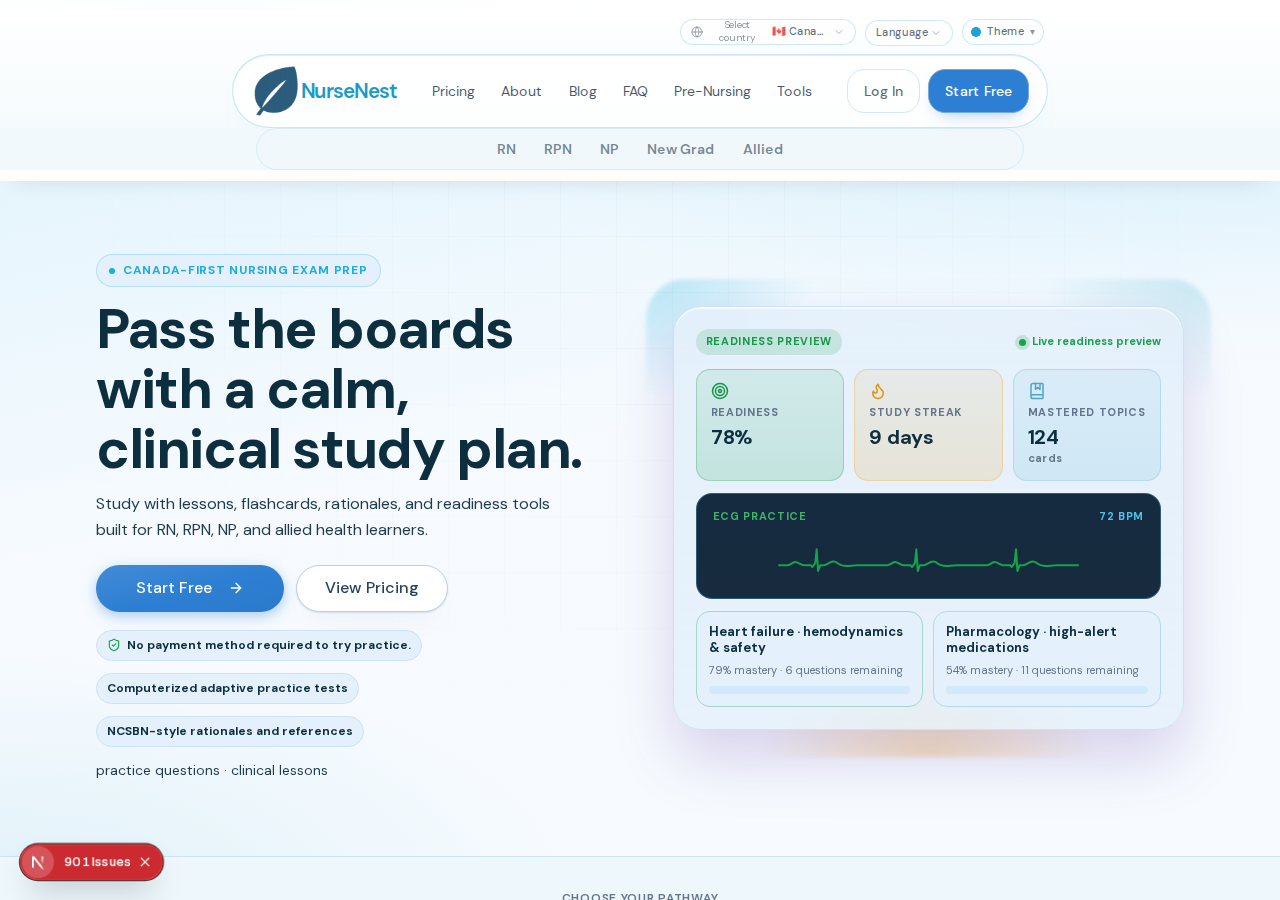
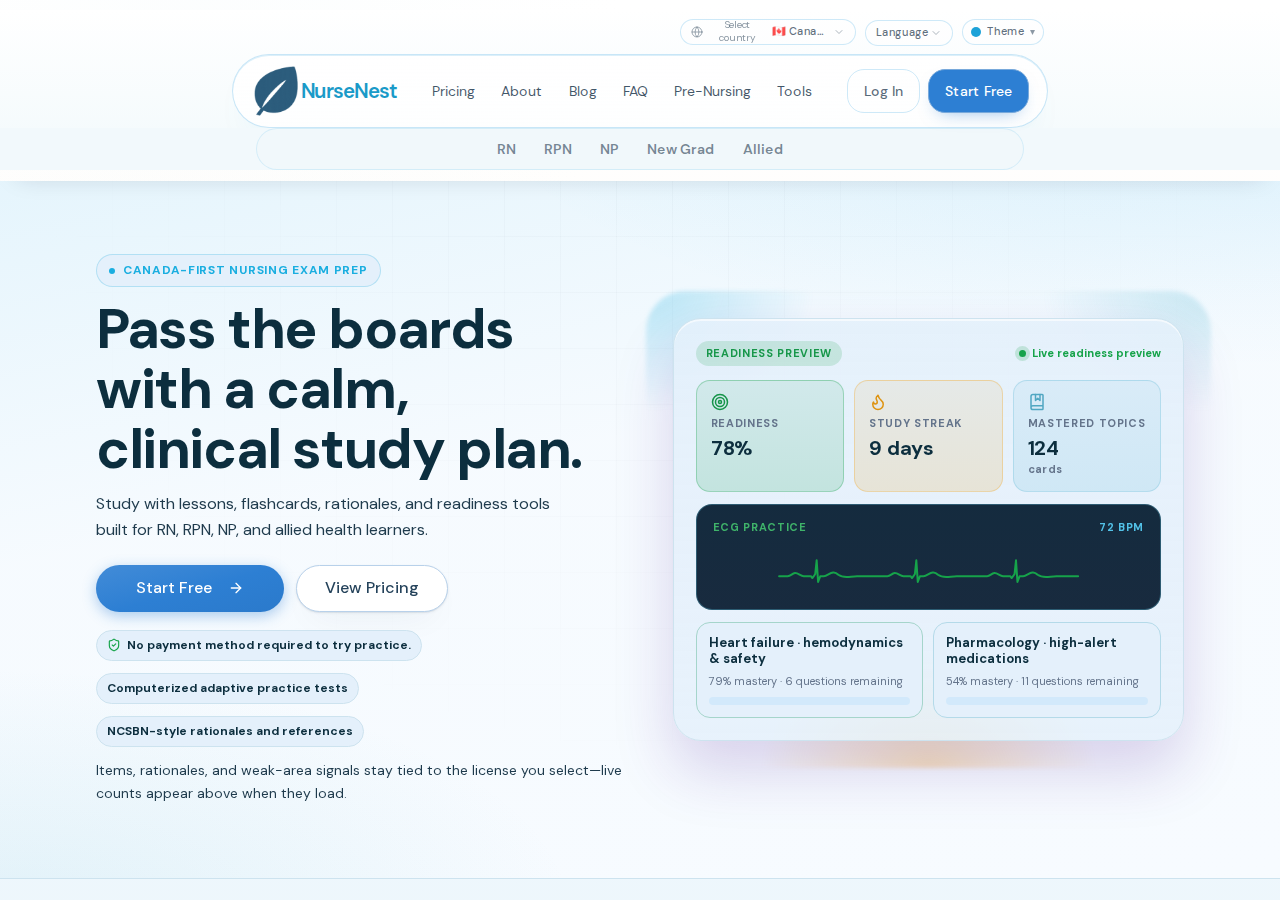
test(e2e): stabilize Ocean/Blossom/Midnight marketing header matrix
- Add describe grep-target slice with desktop hierarchy, 1280 screenshots + audits, mobile 390 shots
- Scope audits to active header layout; fix midnight utility band vs row4 DOM
- Parse color(srgb) for luminance/contrast; relax midnight text luminance gates slightly
- Document runbook and server mode in docs/reports

diff --git a/nursenest-core/tests/e2e/public/marketing-header-layout-responsive.spec.ts b/nursenest-core/tests/e2e/public/marketing-header-layout-responsive.spec.ts
@@ -440,14 +440,22 @@ test.describe("Marketing header — Ocean / Blossom / Midnight", () => {
         timeout: 60_000,
       });
 
-      const utilityBand = page.locator("[data-testid='marketing-header-utility-band']").first();
-      await expect(utilityBand).toBeVisible({ timeout: 30_000 });
+      if (theme === "midnight") {
+        const utilityInline = page.locator('[data-testid="marketing-header-utility-inline"]').first();
+        await expect(utilityInline).toBeVisible({ timeout: 30_000 });
+      } else {
+        const utilityBand = page.locator("[data-testid='marketing-header-utility-band']").first();
+        await expect(utilityBand).toBeVisible({ timeout: 30_000 });
+      }
       const utilityCluster = page.locator('[data-testid="marketing-header-utility-cluster"]').first();
       await expect(utilityCluster).toBeVisible({ timeout: 30_000 });
       await expect(utilityCluster.getByRole("button").first()).toBeVisible({ timeout: 15_000 });
       await expect(utilityCluster.locator("button[aria-expanded]").first()).toBeVisible({ timeout: 15_000 });
       if (publicMarketingThemeChoiceCount() > 1) {
-        const themeBtn = utilityBarLocator(page).locator('button[aria-haspopup="listbox"]').first();
+        const themeBtn =
+          theme === "midnight"
+            ? page.locator('[data-testid="marketing-header-utility-inline"] button[aria-haspopup="listbox"]').first()
+            : utilityBarLocator(page).locator('button[aria-haspopup="listbox"]').first();
         await expect(themeBtn).toBeVisible({ timeout: 15_000 });
       }
 
@@ -493,8 +501,16 @@ test.describe("Marketing header — Ocean / Blossom / Midnight", () => {
           }
           function parseRgb(color: string): [number, number, number] | null {
             const m = color.match(/rgba?\((\d+),\s*(\d+),\s*(\d+)/i);
-            if (!m) return null;
-            return [Number(m[1]), Number(m[2]), Number(m[3])];
+            if (m) return [Number(m[1]), Number(m[2]), Number(m[3])];
+            const cm = color.match(/color\(srgb\s+([\d.]+)\s+([\d.]+)\s+([\d.]+)(?:\s*\/\s*([\d.]+))?\s*\)/i);
+            if (cm) {
+              return [
+                Math.round(Number(cm[1]) * 255),
+                Math.round(Number(cm[2]) * 255),
+                Math.round(Number(cm[3]) * 255),
+              ];
+            }
+            return null;
           }
           function contrastRatio(fg: [number, number, number], bg: [number, number, number]): number {
             const l1 = relLuminance(fg);
@@ -541,9 +557,21 @@ test.describe("Marketing header — Ocean / Blossom / Midnight", () => {
           const wmFg = wordmark ? parseRgb(getComputedStyle(wordmark).color) : null;
           const frameBg = frame ? parseRgb(getComputedStyle(frame).backgroundColor) : null;
           const gridBg = grid ? parseRgb(getComputedStyle(grid).backgroundColor) : null;
+          const primaryBand = header?.querySelector(".nn-header-marketing-primary-band") ?? null;
+          const bandBg = primaryBand ? parseRgb(getComputedStyle(primaryBand).backgroundColor) : null;
           const refBg =
-            frameBg && relLuminance(frameBg) > 0.04 ? frameBg : gridBg && relLuminance(gridBg) > 0.04 ? gridBg : null;
-          const lockupContrast = wmFg && refBg ? contrastRatio(wmFg, refBg) : 0;
+            frameBg && relLuminance(frameBg) > 0.04
+              ? frameBg
+              : gridBg && relLuminance(gridBg) > 0.04
+                ? gridBg
+                : bandBg && relLuminance(bandBg) > 0.04
+                  ? bandBg
+                  : null;
+          let lockupContrast = wmFg && refBg ? contrastRatio(wmFg, refBg) : 0;
+          /* Glass rows often resolve to transparent `background-color` — fall back to white page ink check. */
+          if (lockupContrast === 0 && wmFg && (themeId === "ocean" || themeId === "blossom")) {
+            lockupContrast = contrastRatio(wmFg, [255, 255, 255]);
+          }
 
           const lum = (c: string) => {
             const p = parseRgb(c);
@@ -616,7 +644,10 @@ test.describe("Marketing header — Ocean / Blossom / Midnight", () => {
             const lp = parseRgb(loginColor);
             const loginLum = lp ? relLuminance(lp) : 0;
             const tierLum = parseRgb(tierColor) ? relLuminance(parseRgb(tierColor)!) : 0;
-            const utilText = header?.querySelector("[data-testid='marketing-header-utility-band']") ?? null;
+            const utilText =
+              header?.querySelector("[data-testid='marketing-header-utility-band']") ??
+              header?.querySelector('[data-testid="marketing-header-utility-inline"]') ??
+              null;
             const utilColor = utilText ? getComputedStyle(utilText).color : "";
             const utilLum = parseRgb(utilColor) ? relLuminance(parseRgb(utilColor)!) : 0;
             return {

diff --git a/docs/reports/marketing-theme-readability-stabilization-2026-05-09.md b/docs/reports/marketing-theme-readability-stabilization-2026-05-09.md
@@ -1,0 +1,64 @@
+# Marketing theme readability stabilization — 2026-05-09
+
+## Server mode
+
+- **Production:** `npm run build` then `npm run start` (Next standalone) on **port 3000**, with minimal env for local guardrails:
+  - `AI_ADMIN_GENERATION_ENABLED=false`
+  - `OPENAI_API_KEY=playwright-placeholder-openai`
+  - `AUTH_SECRET=playwright-e2e-local-secret-auth-secret-32b`
+- **Not used for this run:** `next dev` / Turbopack (avoids dev-server flake; matches user preference for screenshot runs).
+
+## Playwright
+
+Command (from `nursenest-core/`):
+
+```bash
+PLAYWRIGHT_SKIP_WEB_SERVER=1 PLAYWRIGHT_BASE_URL=http://127.0.0.1:3000 \
+npx playwright test tests/e2e/public/marketing-header-layout-responsive.spec.ts \
+  --grep "Ocean / Blossom / Midnight" \
+  --project=chromium \
+  --workers=1
+```
+
+**Result:** exit code **0** (3 passed, serial).
+
+### Flake mitigations
+
+- **`PLAYWRIGHT_SKIP_WEB_SERVER=1`** with **`next start`** avoids webServer `next dev` churn and inotify limits.
+- **`--workers=1`** keeps the serial suite predictable.
+- **Scoped DOM:** audits and brand geometry use `header[data-nn-header-layout="…"]` and `[data-testid="marketing-header-primary-row"]` so the mobile (hidden at lg+) lockup is not measured.
+- **Midnight vs light utility DOM:** row4 uses `[data-testid="marketing-header-utility-band"]`; unified dark uses `[data-testid="marketing-header-utility-inline"]` — tests branch accordingly.
+- **Color parsing:** `getComputedStyle` returns `color(srgb …)`; in-browser audit parses that form for luminance and contrast (with a white-surface fallback when glass returns transparent `background-color`).
+
+## Contrast / readability approach (automated)
+
+- **Light (Ocean, Blossom):** utility/tier bands must not read as ink-black (distance / luminance heuristic); primary shell not near-black; wordmark vs sampled background contrast ≥ **2.85** (large text / UI heuristic), with white fallback when shell background is transparent.
+- **Blossom:** extra guard `blossomShellPastel` (shell luminance > **0.2**).
+- **Midnight:** login link + tier chip text luminance **> 0.78**; utility strip text **> 0.72**.
+- **Hot pink:** tier chip must not equal classic hot pink RGB; shell scan rejects neon magenta/fuchsia on scoped chrome surfaces.
+
+## Screenshots (under `nursenest-core/`)
+
+- `docs/screenshots/marketing-header/theme-nav-ocean-1280x900-chromium.png`
+- `docs/screenshots/marketing-header/theme-nav-blossom-1280x900-chromium.png`
+- `docs/screenshots/marketing-header/theme-nav-midnight-1280x900-chromium.png`
+- `docs/screenshots/marketing-header/theme-nav-ocean-390x844-chromium.png`
+- `docs/screenshots/marketing-header/theme-nav-blossom-390x844-chromium.png`
+- `docs/screenshots/marketing-header/theme-nav-midnight-390x844-chromium.png`
+
+## CSS / tokens
+
+- **No production CSS or token file changes** were required for this slice once tests targeted the correct DOM and color serializations.
+
+## Remaining risks
+
+- **Contrast fallback:** when computed `background-color` is fully transparent, light-theme lockup contrast uses **white (255,255,255)** as a conservative surrogate.
+- **`isForbiddenNavPink` heuristic** could theoretically overlap an unusual saturated shell swatch.
+- **Remote DATABASE_URL** may be present in dev containers; tests only hit `/`.
+
+## Files changed
+
+- `nursenest-core/tests/e2e/public/marketing-header-layout-responsive.spec.ts`
+- `docs/reports/marketing-theme-readability-stabilization-2026-05-09.md`
+- `nursenest-core/docs/screenshots/marketing-header/theme-nav-{ocean,blossom,midnight}-1280x900-chromium.png`
+- `nursenest-core/docs/screenshots/marketing-header/theme-nav-{ocean,blossom,midnight}-390x844-chromium.png`